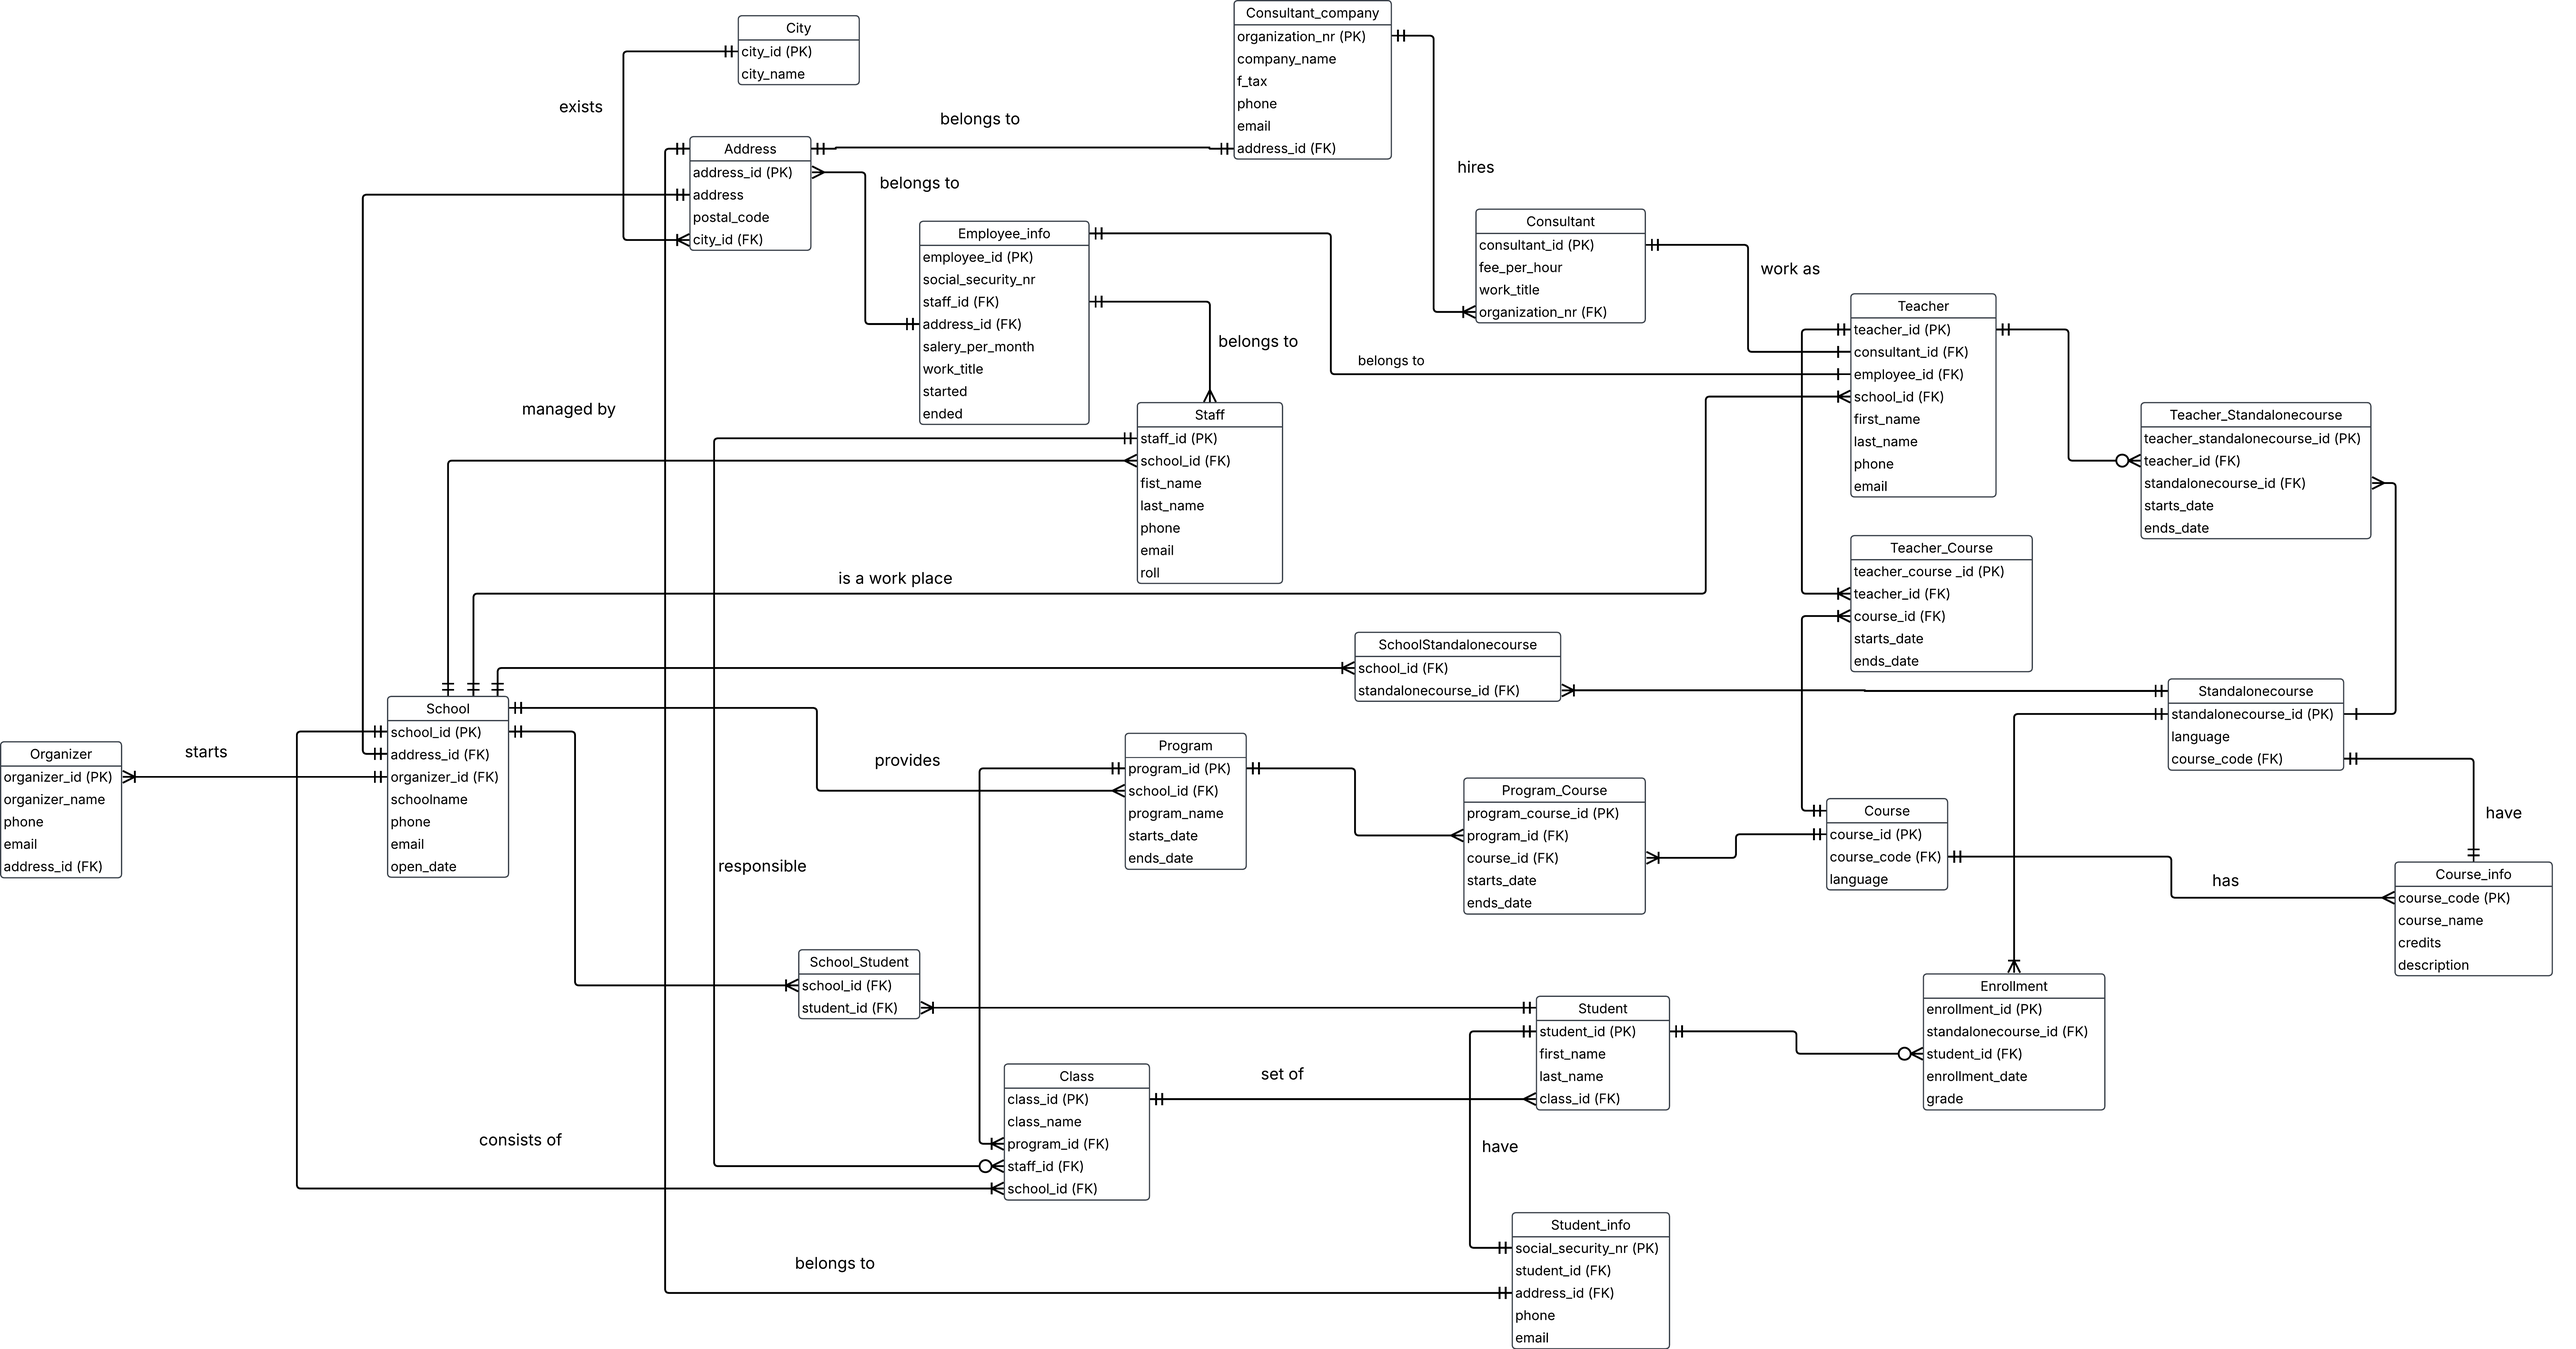
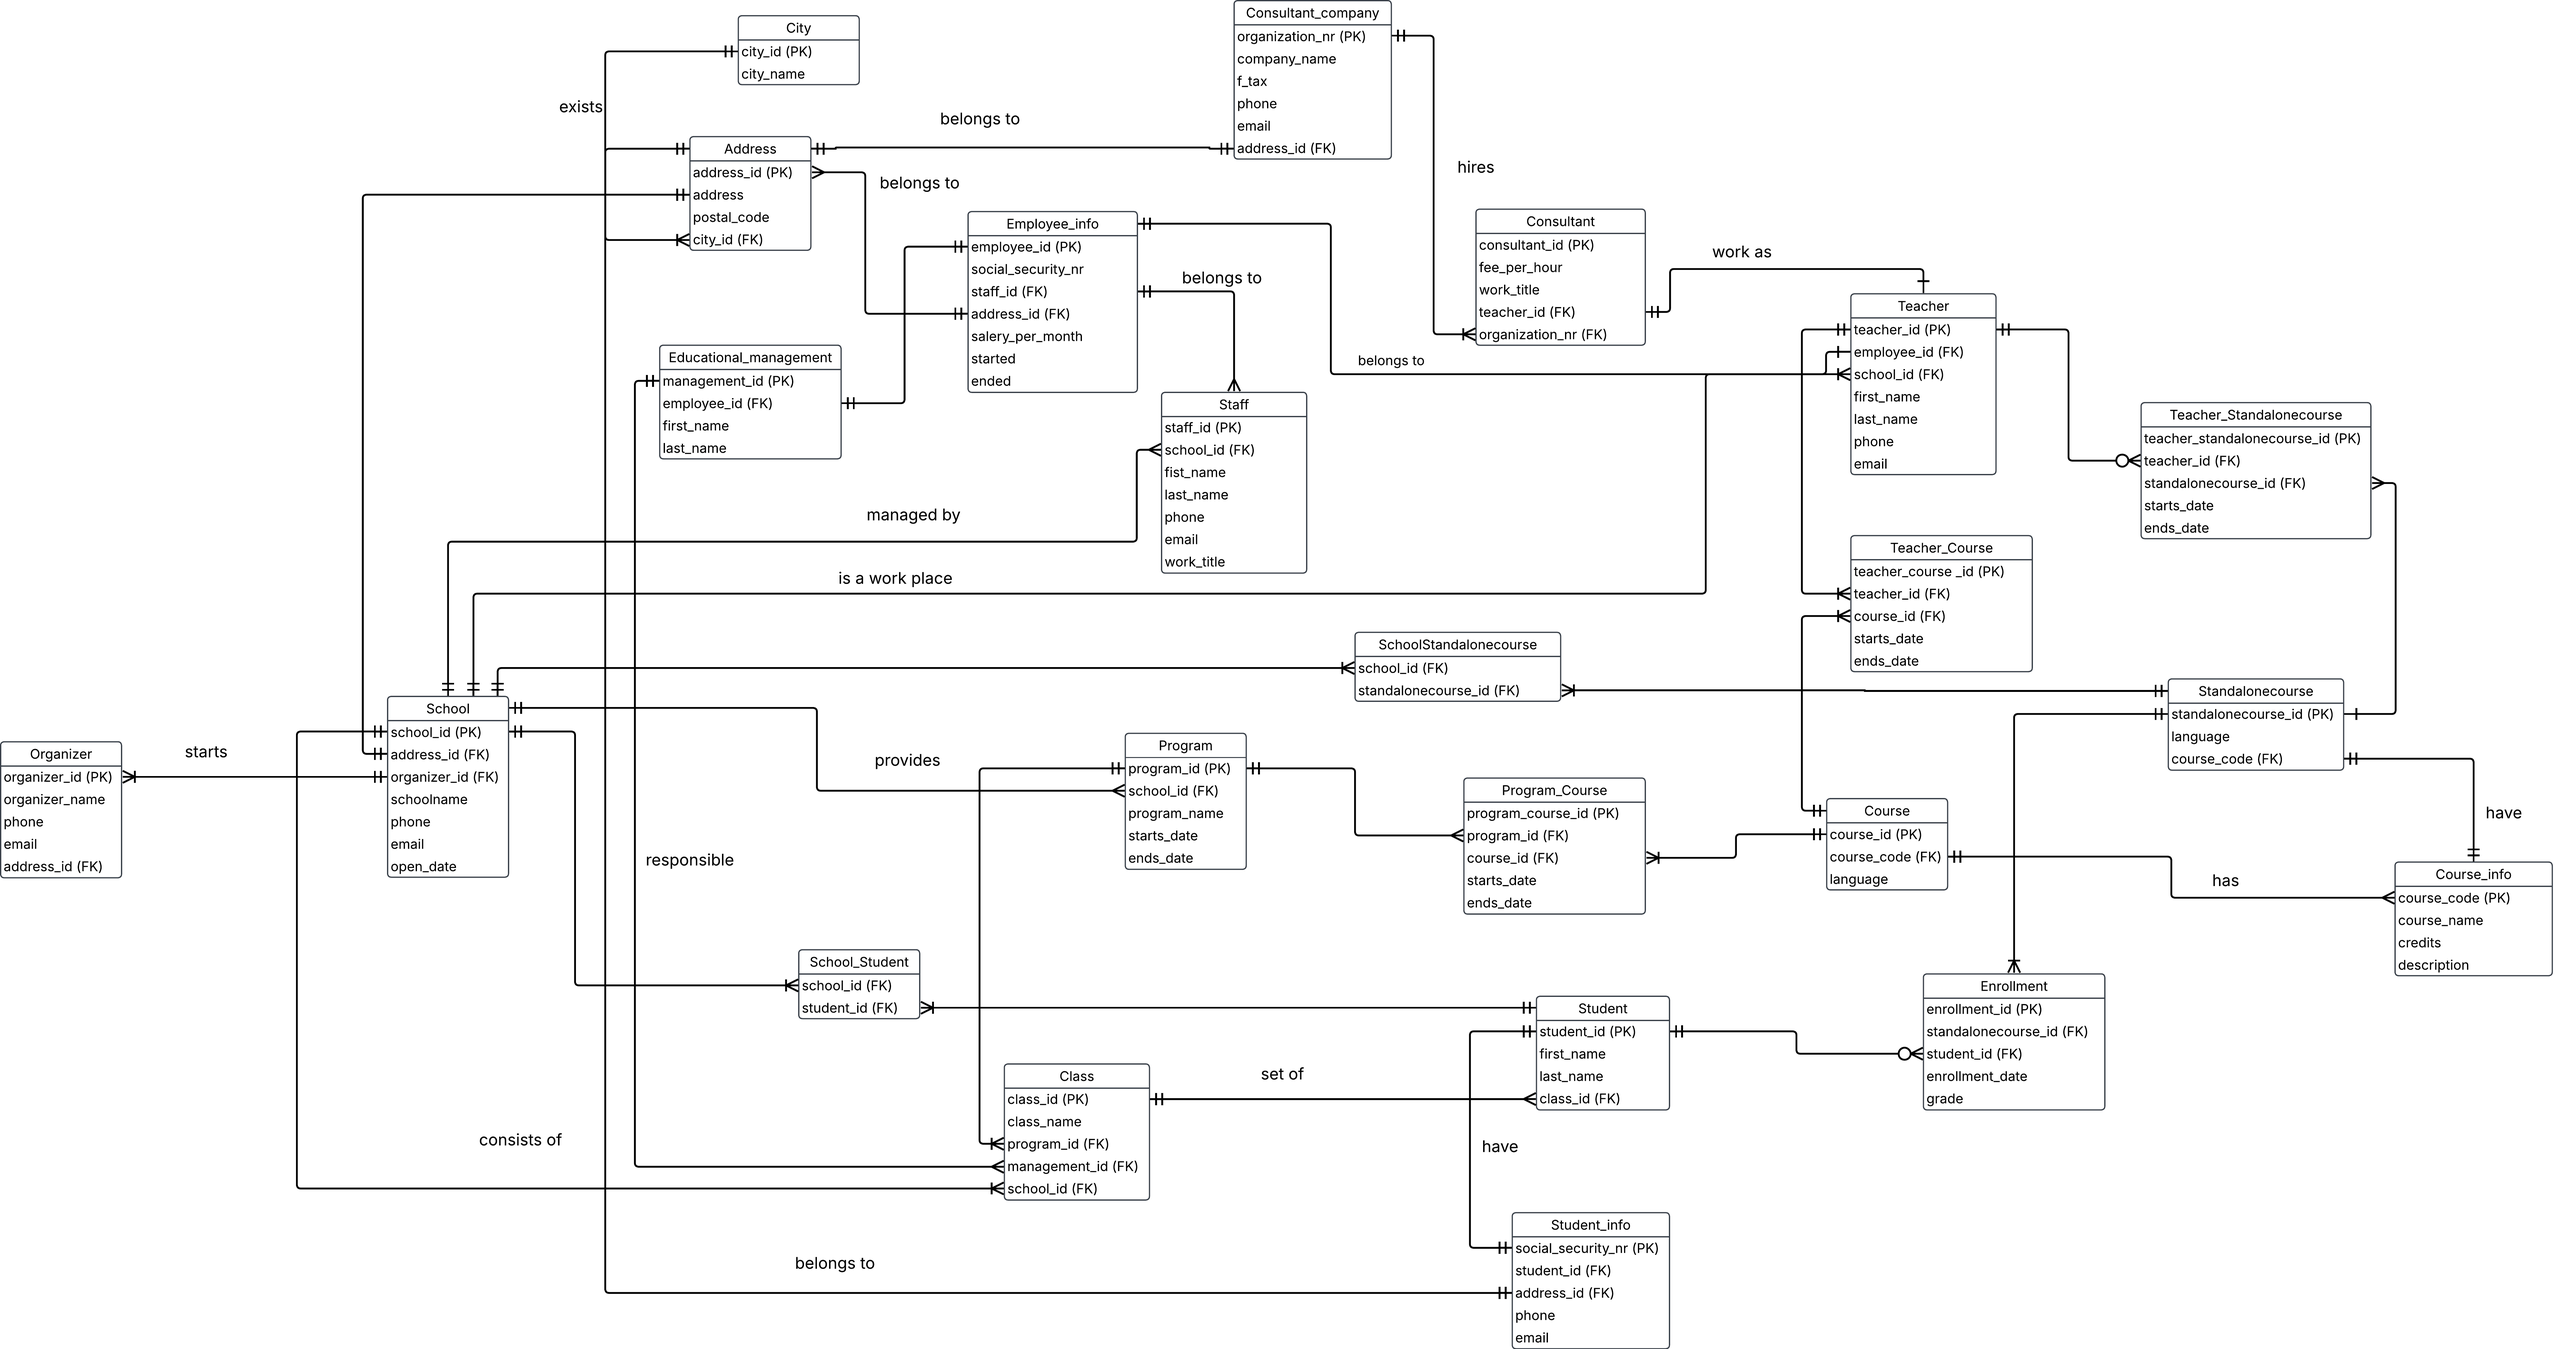
modified added educational_management

diff --git a/logical_model.md b/logical_model.md
@@ -121,9 +121,10 @@
 
 ***Class***
 - class_id (PK)
-- program_id (FK)
-- school_id (FK)
 - class_name
+- program_id (FK)
+- management_id (FK)
+- school_id (FK)
 
 
 
@@ -135,14 +136,20 @@
 - last_name
 - phone
 - email
+- work_title
 
+
+***Educational_management***
+- management_id (PK)
+- employee_id (FK)
+- first_name
+- last_name
 
 ***Employee_info***
 - employee_id (PK)
 - social_security_nr  
 - address_id (FK)
 - salary
-- work_title
 - started
 - ended
 
@@ -191,17 +198,17 @@
 
 - Standalonecourse (<u>standalonecourse_id</u>, language, course_code, FK course_code -> Course_info)
 
-- Teacher (<u>teacher_id</u>, consultant_id, employee_id, first_name, last_name, phone, email, FK: consultant_id -> Consultant, FK: employee_id -> Employee_id)
+- Teacher (<u>teacher_id</u>, consultant_id, employee_id, first_name, last_name, phone, email, FK: employee_id -> Employee_id)
 
-- Staff (<u>staff_id</u>, school_id, first_name, last_name, phone, email, work_title, roll, FK: school_id -> School)
+- Staff (<u>staff_id</u>, school_id, first_name, last_name, phone, email, work_title, FK: school_id -> School)
 
-- Consultant (<u>consultant_id</u>, fee_per_hour, organizer_nr, staff_id, FK organizer_nr -> Consultant_company, FK: staff_id -> Staff)
+- Consultant (<u>consultant_id</u>, fee_per_hour, organizer_nr, staff_id, teacher_id, FK organizer_nr -> Consultant_company, FK: teacher_id -> Teacher)
 
 Consultant_company (<u>organization_nr</u>, company_name, f_tax, phone, email, address_id, FK: address_id -> Addrsss)
 
 Employee_info (<u>employee_id</u>,social_security_nr, staff_id, address_id, salery_per_moth, started, FK staff_id -> Staff, FK: address_id -> Address)
 
-
+Educational_management (<u>management_id</u>, employee_id, first_name, last_name, FK: employee_id -> Employee_info)
 
 Enrollment (<u>enrollment_id</u>, standalonecourse_id, student_id, enrollment_date, grade, FK: standalonecourse_id -> Standalonecourse, FK: student_id -> Student) 
 
@@ -220,7 +227,7 @@ Teacher_Course (<u>teacher_course_id</u>, teacher_id, course_id, FK: teacher_id 
 
 - program_id -> (school_id, class_id, program_name, starts_date, ends_date)
 
-- class_id -> (class_name, staff_id, school_id)
+- class_id -> (class_name, program_id, management_id, school_id)
 
 - student_id -> (first_name, last_name, class_id)
 
@@ -242,8 +249,9 @@ Teacher_Course (<u>teacher_course_id</u>, teacher_id, course_id, FK: teacher_id 
 
 - organization_nr -> (company_name, f_tax, phone, email, address_id)
 
-- employee_id -> (social_security_nr, staff_id, address_id, salery_per_month, started)
+- employee_id -> (social_security_nr, staff_id, address_id, salery_per_month, started, ended)
 
+- management_id -> (employee_id, first_name, last_name)
 
 - address_id -> (address, postal_code, city_id)
 
@@ -254,4 +262,4 @@ Teacher_Course (<u>teacher_course_id</u>, teacher_id, course_id, FK: teacher_id 
 
 - (school_id, student_id) -> (school_id, student_id)
 
-
+- (school_id, standalonecourse_id) -> (school_id, standalonecourse_id)

diff --git a/conceptual_model.md b/conceptual_model.md
@@ -43,10 +43,12 @@ each Student `have` one and only one student information, Studen_info can only `
 - Teacher `teaches` in zero, one or more coursers in course_schedule, each  course in Course_schedule `shared with` one or more teachers.
 - Teacher `teaches in` one or more standalonecourses, Standalonecourse `taught` by zero, one or more teachers.
 - a school `is a workplace` for one or more techers, Teacher `work at` one and only one school.  
+- a Educationa_management is `responsible` for more classes, Classes `management` by one onad only one educational_management.
+- a Educationa_management `have` one and only one emloyee_info, Eployee_info `belongs to` one and only one educational_management.  
 
 **Initial conceptual ERD**
 
-<img src = "assets/yh_initial_conceptual_erd.png">
+<img src = "assets/yh_conceptual_erd.png">
 
 
 <br>
@@ -78,7 +80,7 @@ each Student `have` one and only one student information, Studen_info can only `
 - Staff
 - Consultan
 - Consultant_company
-
+- eduactional_management
 
 **Business rules**
 
